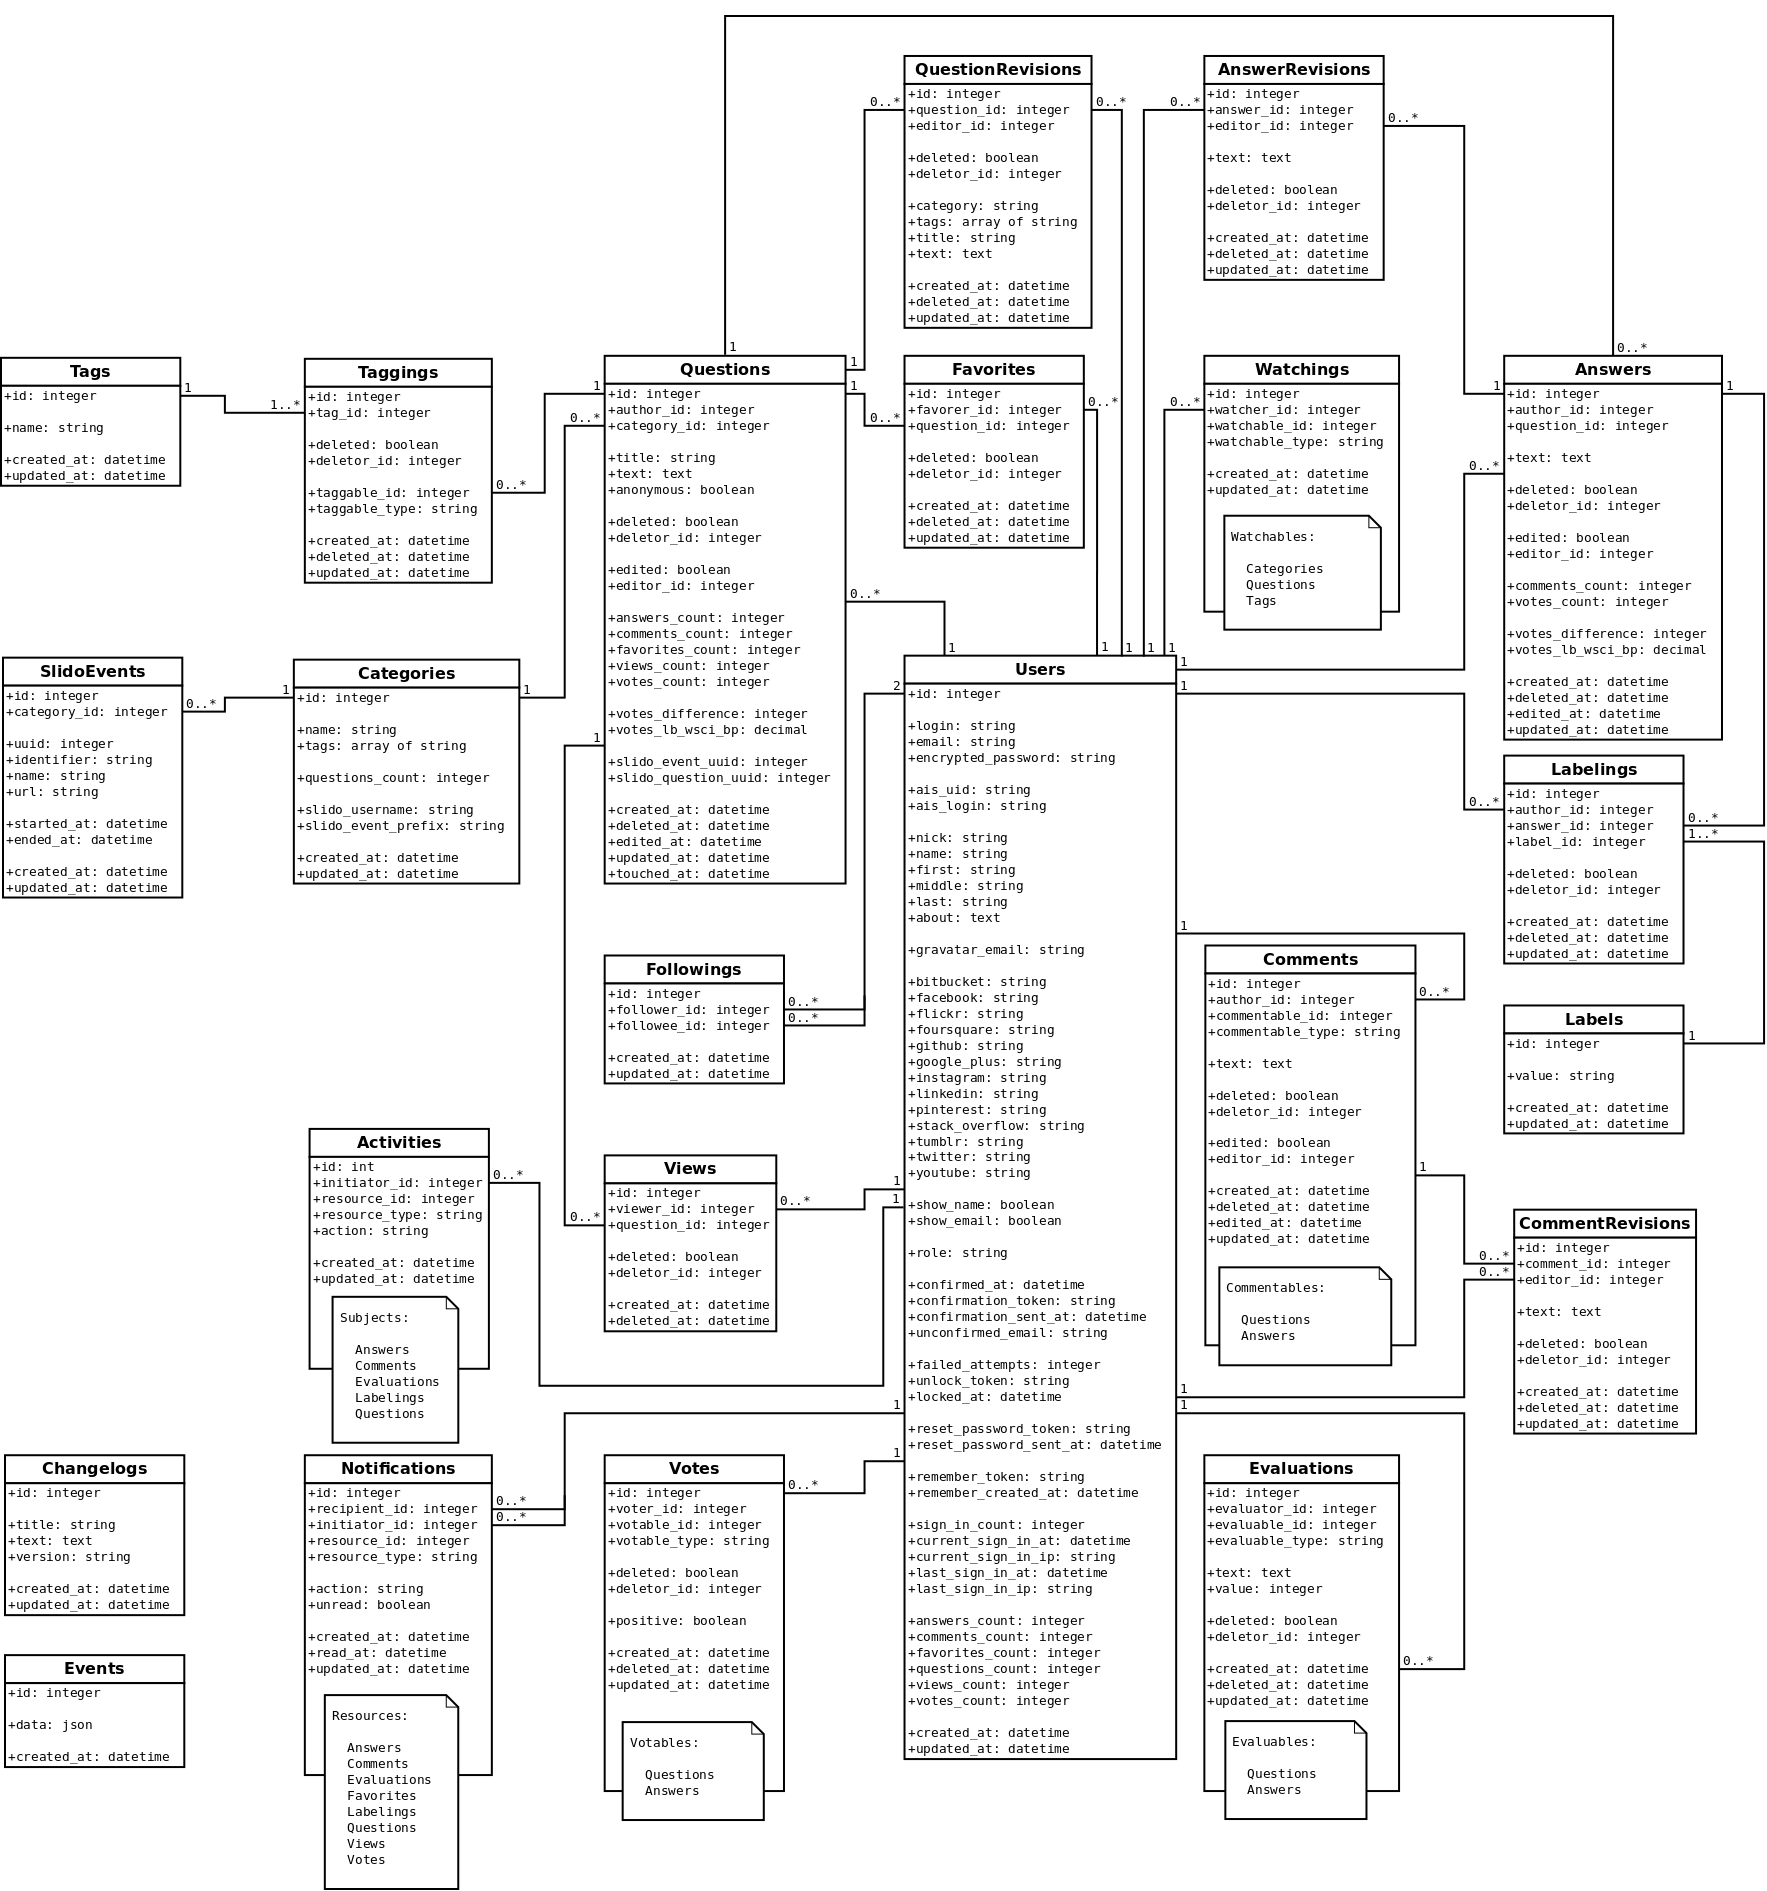
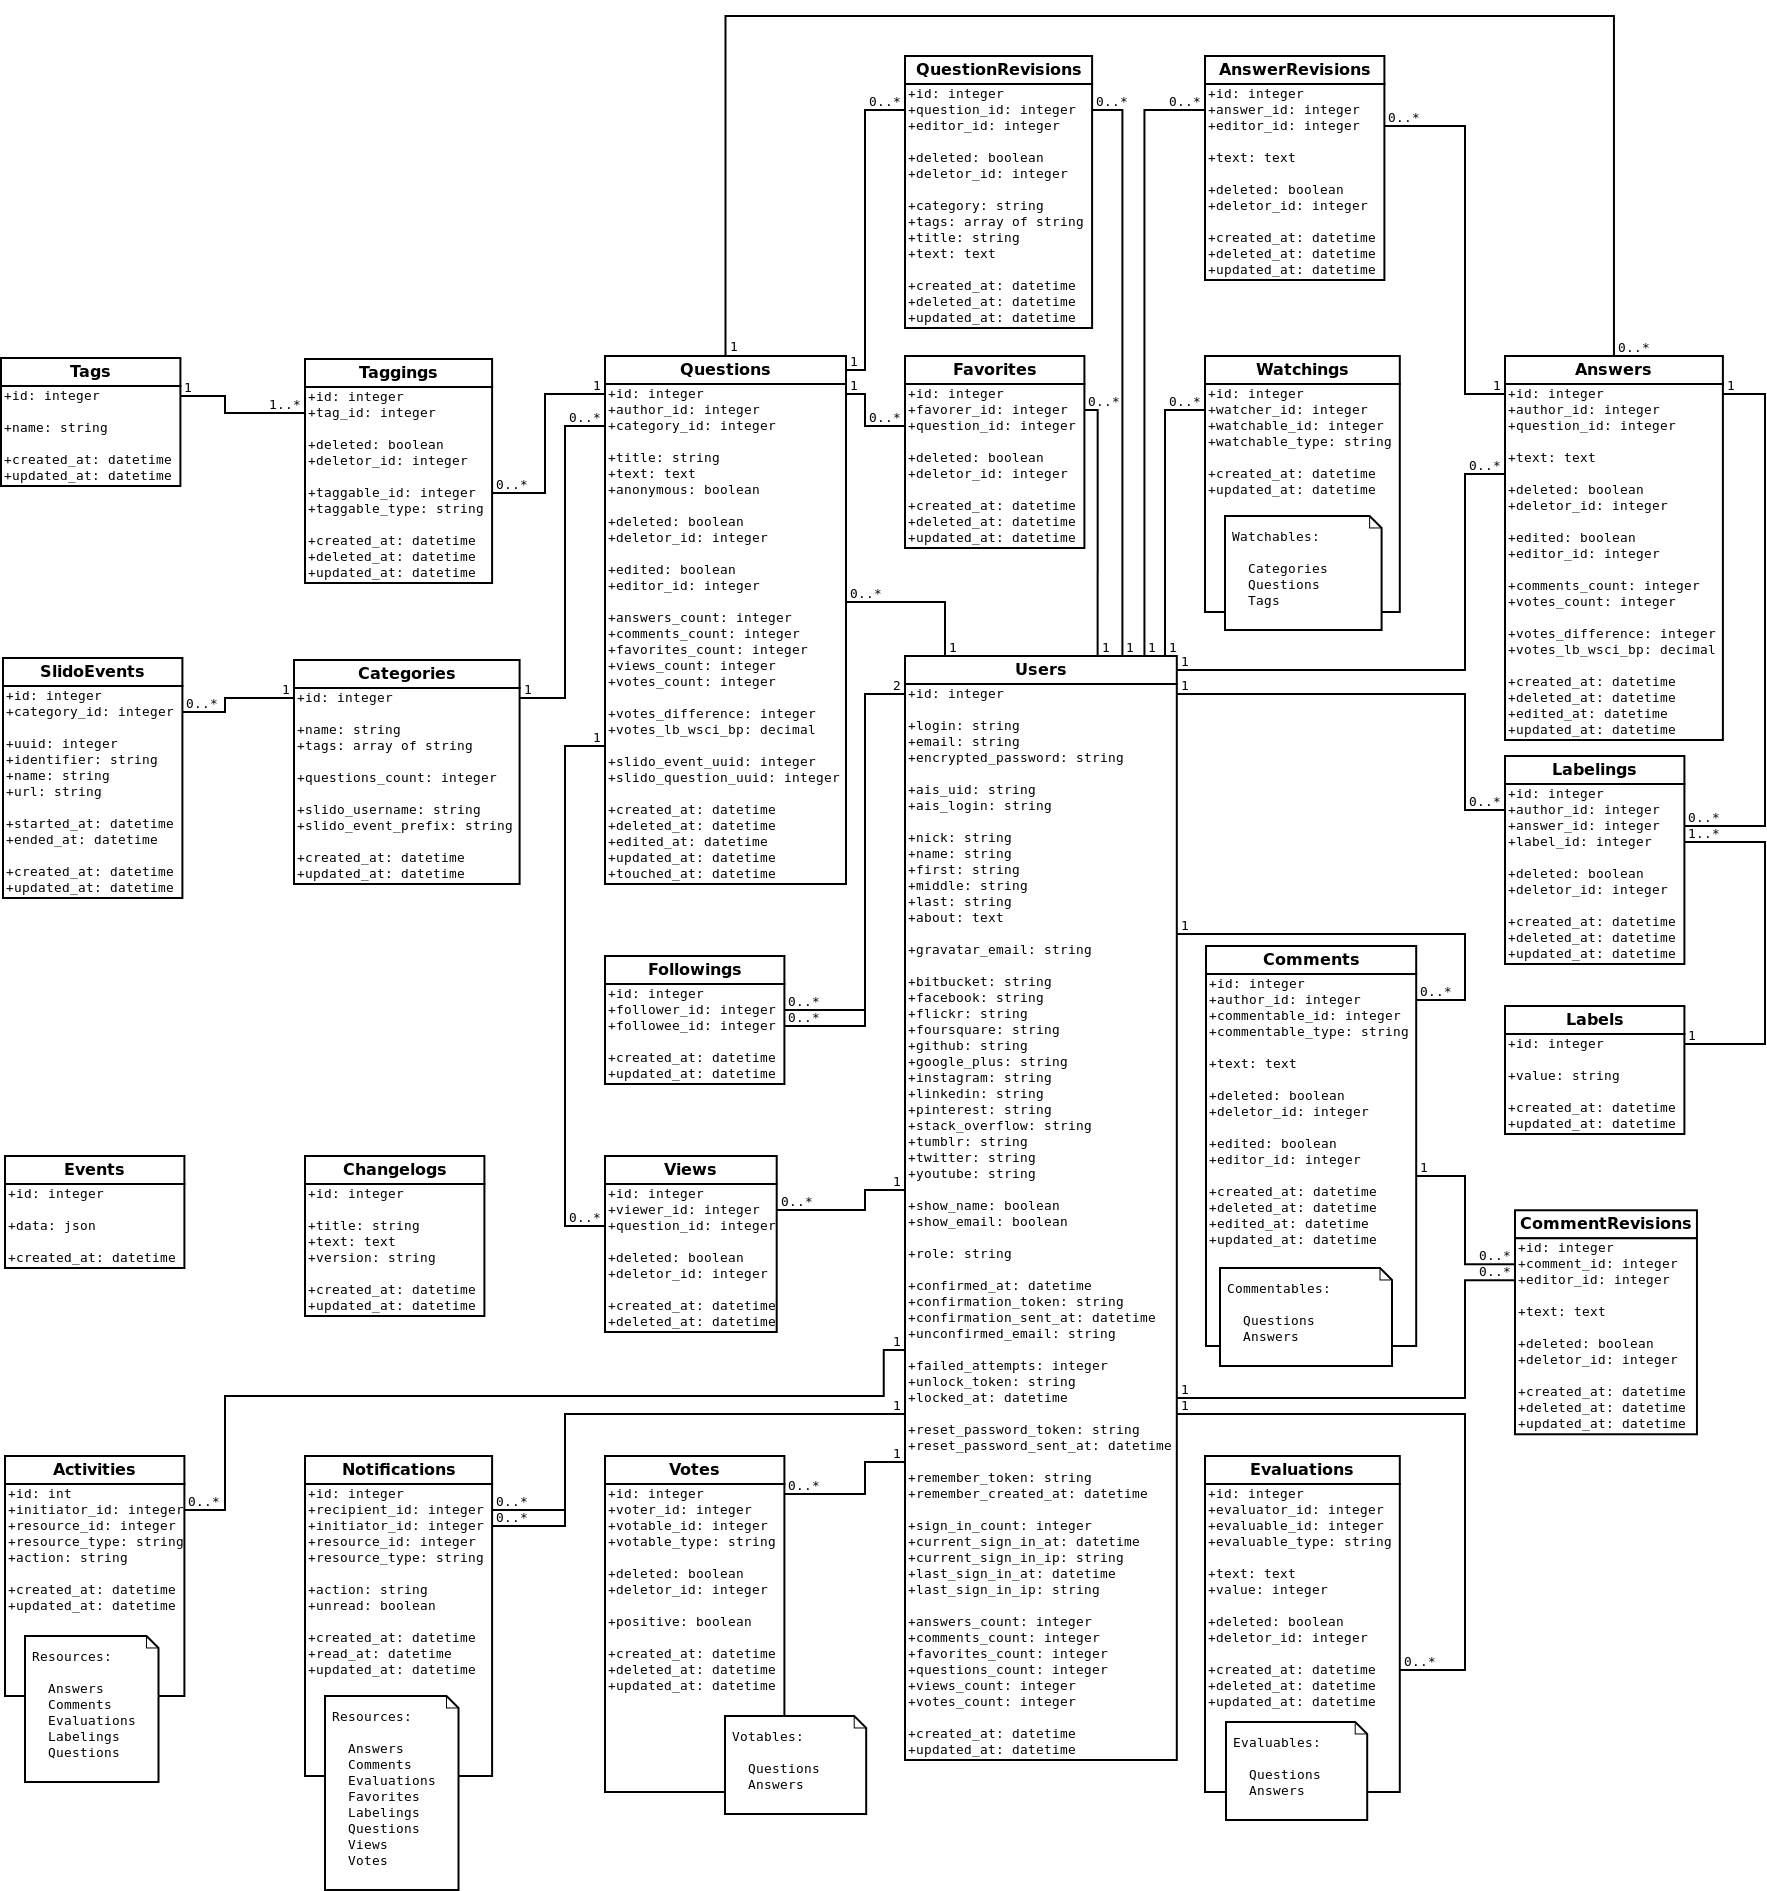
Format some code, format DB schema diagram

diff --git a/db/schema.rb b/db/schema.rb
@@ -16,6 +16,20 @@ ActiveRecord::Schema.define(version: 20140322113048) do
   # These are extensions that must be enabled in order to support this database
   enable_extension "plpgsql"
 
+  create_table "activities", force: true do |t|
+    t.integer  "initiator_id",  null: false
+    t.integer  "resource_id",   null: false
+    t.string   "resource_type", null: false
+    t.string   "action",        null: false
+    t.datetime "created_at"
+    t.datetime "updated_at"
+  end
+
+  add_index "activities", ["action"], name: "index_activities_on_action", using: :btree
+  add_index "activities", ["created_at"], name: "index_activities_on_created_at", using: :btree
+  add_index "activities", ["initiator_id"], name: "index_activities_on_initiator_id", using: :btree
+  add_index "activities", ["resource_id", "resource_type"], name: "index_activities_on_resource_id_and_resource_type", using: :btree
+
   create_table "answer_revisions", force: true do |t|
     t.integer  "answer_id",                  null: false
     t.integer  "editor_id",                  null: false
@@ -307,8 +321,8 @@ ActiveRecord::Schema.define(version: 20140322113048) do
 
   create_table "tags", force: true do |t|
     t.string   "name",       null: false
-    t.datetime "updated_at", null: false
     t.datetime "created_at", null: false
+    t.datetime "updated_at", null: false
   end
 
   add_index "tags", ["name"], name: "index_tags_on_name", unique: true, using: :btree

diff --git a/db/migrate/20140321084147_create_activities.rb b/db/migrate/20140321084147_create_activities.rb
@@ -2,7 +2,7 @@ class CreateActivities < ActiveRecord::Migration
   def change
     create_table :activities do |t|
       t.references :initiator, null: false
-      t.references :resource,   null: false, polymorphic: true
+      t.references :resource,  null: false, polymorphic: true
 
       t.string :action, null: false
 
